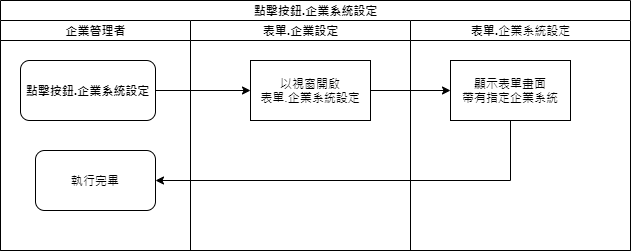
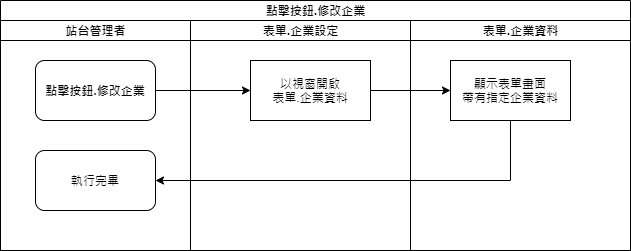
RTE SA文件補充 站台管理表單.企業設定 站台管理表單.企業資料

diff --git a/8.10.1/RTE/SITE/enterprisedetail/README.md b/8.10.1/RTE/SITE/enterprisedetail/README.md
@@ -3,32 +3,45 @@
 
     ![表單畫面]
 
-* 本表單主要在在設定企業相關資料
+* 本表單主要在在設定企業相關資料，有以下兩種開啟方式
+    * 站台管理員在表單.企業設定，點擊按鈕.新增企業或點擊按鈕.修改企業進行開啟本表單。
+    * 企業管理員在站台管理首頁的表單選單可看到本表單並點擊開啟。
 
 ### <div id="basic">企業基本資料 <path>(畫面說明)</path></div>
-* 待補
+* 企業資料
+    * 欄位.企業代碼 : 不可空白，表示該企業的代碼。
+    * 欄位.公司名稱(當地) : 不可空白，表示該企業的名稱。
+    * 欄位.統一編號/稅籍碼 : 可空白，表示該企業的統一編號或稅籍碼。
+    * 欄位.國別代碼 : 不可空白，為下拉選項，選項內容為表單.國別設定之內容。
+    * 欄位.公司電話代表號 : 可空白，為該企業的電話代表號。
+    * 欄位.電話國碼 : 可空白，為該企業的電話國別代碼。
+    * 欄位.收費聯絡人姓名 : 不可空白，為該企業的收費聯絡人姓名。
+    * 欄位.負責人姓名 : 不可空白，為該企業的負責人姓名。
+    * 欄位.公司地址 : 可空白，為該企業的公司地址。
+    * 欄位.公司英文名 : 不可空白，為該企業的公司英文名。
+    * 欄位.企業Manager : 可空白，開窗挑選企業帳號，為該企業的企業管理員。
+    * 欄位.同時最大上線人數 : 不可空白，為該企業可同時上線最大人數，預設給0，表示無上限。
+    * 欄位.Google API Key : 可空白，為該企業內使用系統若有呼叫Google地圖，則會使用這把Google API Key進行開啟地圖的動作。
 
-### <div id="style">企業樣式設定 <path>(畫面說明)</path></div>
+### <div id="style">企業LOGO相關 <path>(畫面說明)</path></div>
 * 企業LOGO : 使用者登入首頁後，依據設定顯示於首頁的左上角。
     * 欄位.LOGO檔案：
         * 唯讀
         * 有上傳圖檔時，顯示圖片檔案名稱(含副檔名)
-
     * 功能鍵.上傳：
         * 開啟檔案總管挑選圖片
         * 上傳後欄位.LOGO顯示圖片檔案名稱(含副檔名)
         * 上傳後欄位.預覽結果顯示圖片縮圖
-
     * 功能鍵.下載：
         * 未上傳LOGO檔案 時除能
         * 下載已上傳的LOGO檔案
-
     * 功能鍵.恢復系統預設：
         * 未上傳LOGO檔案 時除能
         * 刪除已上傳的LOGO檔案
         * 刪除後清空欄位.LOGO
         * 刪除後清空欄位.預覽結果
 
+### <div id="homepage">企業首頁樣式 <path>(畫面說明)</path></div>
 * 新版首頁樣式
     * 欄位.新版首頁壓縮檔：
         * 唯讀

diff --git a/8.10.1/RTE/SITE/enterpriseindex/README.md b/8.10.1/RTE/SITE/enterpriseindex/README.md
@@ -13,12 +13,11 @@
 * 欄位.公司名稱 : 表示該企業的公司名稱。
 * 按鈕.新增企業
     * 點擊後開啟表單.企業資料，可進行新增企業的動作。
-    * 待補
 * 按鈕.刪除企業
-    * 點擊後刪除指定企業資料
-    * 待補
+    * 點擊後跳出確認訊息，確認後，刪除指定企業資料。
+    * 刪除限制 : 若企業下已有使用者，則不允刪除。
 * 功能鍵.修改企業
-    * 點擊後開啟表單.企業資料，可進行修改指定企業的動作。
+    * 點擊後開啟表單.企業資料，可進行修改指定企業資料的動作。
 * 功能鍵.企業系統設定
     * 點擊後開啟表單.企業系統設定，可針對指定企業增加、刪除、修改可用系統的設定。
 
@@ -31,12 +30,13 @@
 
     ![點擊按鈕.新增企業]
 
-* 點擊按鈕.刪除企業 : 待補
+* 點擊按鈕.刪除企業
 
+    ![點擊按鈕.刪除企業]
 
 * 點擊按鈕.更新企業
 
-    ![點擊按鈕.更新企業]
+    ![點擊按鈕.更新企業]    
 
 * 點擊按鈕.企業系統設定
 
@@ -47,3 +47,4 @@
 [點擊按鈕.新增企業]:attachment/click_add_enterprise.png "點擊按鈕.新增企業"
 [點擊按鈕.更新企業]:attachment/click_update_enterprise.png "點擊按鈕.更新企業"
 [點擊按鈕.企業系統設定]:attachment/click_enterprise_system.png "點擊按鈕.企業系統設定"
+[點擊按鈕.刪除企業]:attachment/click_delete_enterprise.png "點擊按鈕.刪除企業"

diff --git a/8.10.1/RTE/SITE/enterprisedetail/_sidebar.md b/8.10.1/RTE/SITE/enterprisedetail/_sidebar.md
@@ -2,6 +2,7 @@
 * [上一頁]({back})
 * [畫面說明](README.md#view)
     * [企業基本資料](README.md#basic)
-    * [企業樣式設定](README.md#style)
+    * [企業LOGO相關](README.md#style)
+    * [企業首頁樣式](README.md#homepage)
 * [動作流程](README.md#action)
 * [history](history.md)
